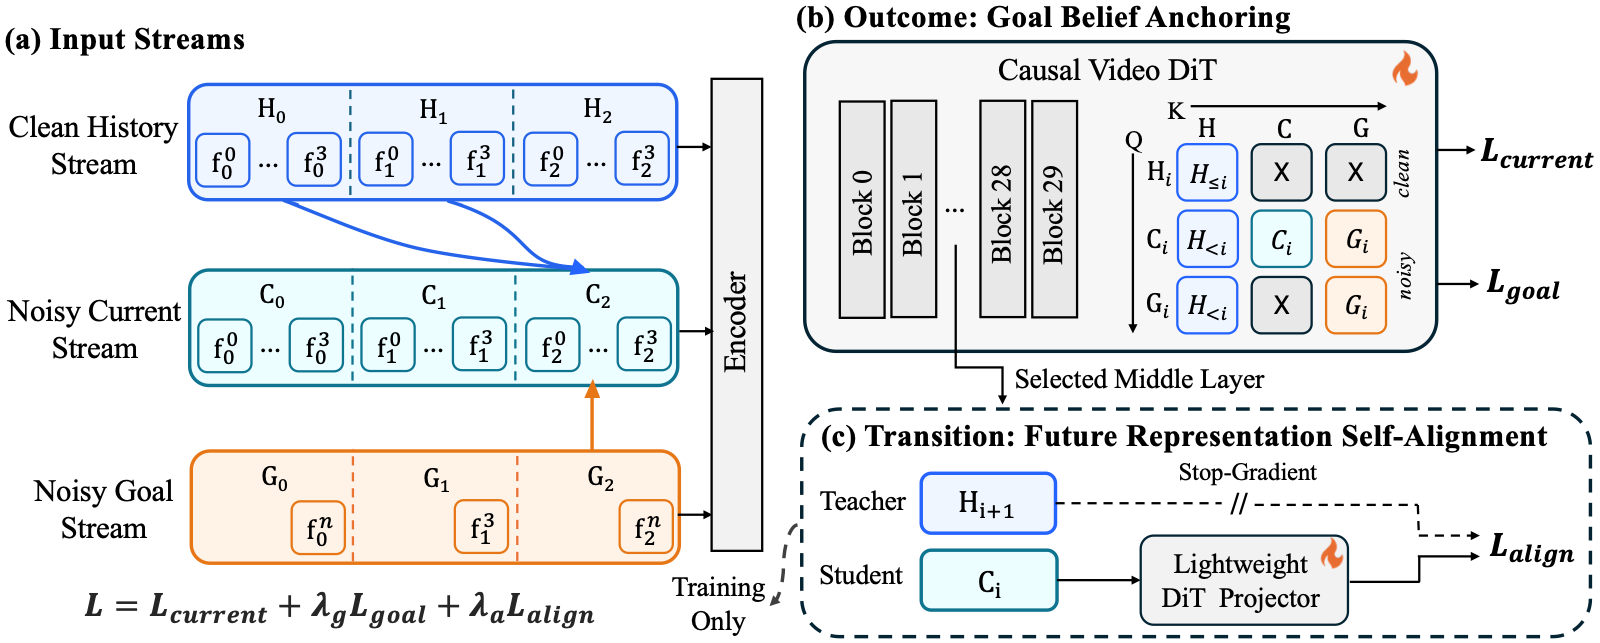
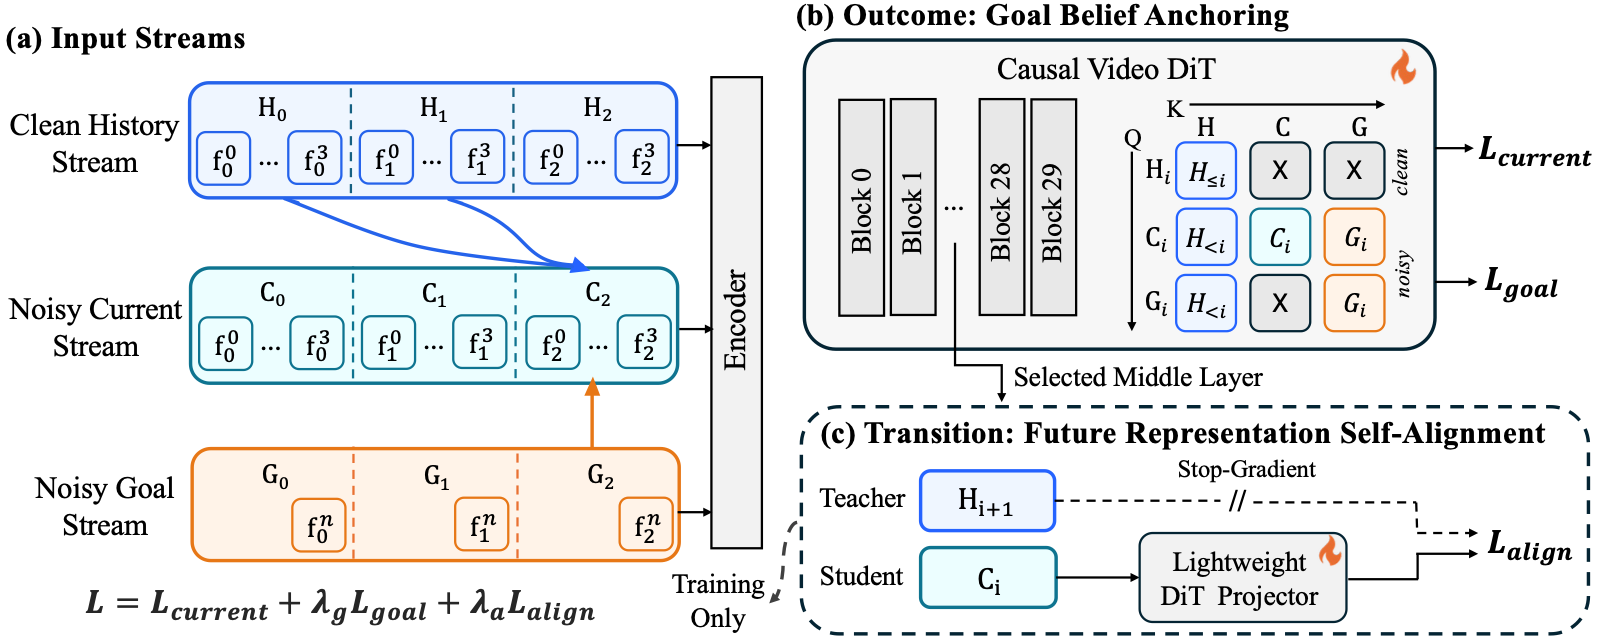
Update ProAR project page

diff --git a/index.html b/index.html
@@ -9,7 +9,7 @@
   <link rel="icon" href="favicon.ico?v=2" sizes="any">
   <link rel="icon" href="images/favicon.svg?v=2" type="image/svg+xml">
   <link rel="apple-touch-icon" href="images/apple-touch-icon.png?v=2">
-  <link rel="stylesheet" href="styles.css?v=restore-gt-4">
+  <link rel="stylesheet" href="styles.css?v=compact-hero-6">
   <script src="script.js?v=worldarena-names-2" defer></script>
 </head>
 <body>
@@ -17,25 +17,29 @@
     <nav class="nav wrap" aria-label="Main navigation">
       <a class="wordmark" href="#"><span>Pro</span>AR<span class="brand-dot"></span></a>
       <div class="nav-links"><a href="#idea">The idea</a><a href="#method">Method</a><a href="#results">Results</a><a href="#citation">Citation</a></div>
-      <a class="nav-paper" href="paper.pdf" target="_blank" rel="noopener">Paper ↗</a>
+      <a class="nav-paper" href="#" aria-disabled="true" onclick="return false;" title="PDF link to be added">Paper ↗</a>
     </nav>
   </header>
 
   <main>
-    <section class="hero wrap">
+    <section class="hero wrap hero-with-teaser">
       <p class="eyebrow">Autoregressive video · Prospective reasoning</p>
       <h1><span class="hero-name"><span>Pro</span>AR</span>Learning Prospective Reasoning<br class="desktop-break"> with Autoregressive Video Models</h1>
-      <p class="authors">Linghui Shen<sup>1</sup><span>·</span><a href="https://darthzhu.github.io/" target="_blank" rel="noopener">Tinghui Zhu</a><sup>2</sup><span>·</span><a href="https://sheng-z.github.io/" target="_blank" rel="noopener">Sheng Zhang</a><sup>3</sup><span>·</span><a href="https://muhaochen.github.io/" target="_blank" rel="noopener">Muhao Chen</a><sup>2</sup></p>
+      <p class="authors"><a href="https://scholar.google.com/citations?user=rbJSgZoAAAAJ" target="_blank" rel="noopener">Linghui Shen</a><sup>1</sup><span>·</span><a href="https://darthzhu.github.io/" target="_blank" rel="noopener">Tinghui Zhu</a><sup>2</sup><span>·</span><a href="https://sheng-z.github.io/" target="_blank" rel="noopener">Sheng Zhang</a><sup>3</sup><span>·</span><a href="https://muhaochen.github.io/" target="_blank" rel="noopener">Muhao Chen</a><sup>2</sup></p>
       <p class="affiliations"><span><sup>1</sup> The Hong Kong Polytechnic University</span><span><sup>2</sup> University of California, Davis</span><span><sup>3</sup> Microsoft</span></p>
       <p class="hero-summary">ProAR transforms autoregressive video generation into a visual reasoning process through <strong>prospective guidance.</strong></p>
+      <!-- TODO: Replace the three PDF/Paper placeholder links with the arXiv PDF URL; remove aria-disabled and onclick. -->
       <div class="hero-actions">
         <a class="button" href="https://arxiv.org/" target="_blank" rel="noopener"><svg class="resource-icon" viewBox="0 0 24 24" fill="none" stroke="currentColor" stroke-width="2" stroke-linecap="round" stroke-linejoin="round" aria-hidden="true"><path d="M5 3 18.5 21M19 3l-6 8M10.5 14 5 21"/><path d="m5 3 4.5 1L19 20l-.5 1" stroke-width="1.3"/></svg> arXiv</a>
-        <a class="button primary" href="paper.pdf" target="_blank" rel="noopener"><svg class="resource-icon" viewBox="0 0 24 24" fill="none" stroke="currentColor" stroke-width="1.7" aria-hidden="true"><path d="M6 3h8l4 4v14H6zM14 3v5h4M9 12h6M9 16h6"/></svg> PDF</a>
+        <a class="button primary" href="#" aria-disabled="true" onclick="return false;" title="PDF link to be added"><svg class="resource-icon" viewBox="0 0 24 24" fill="none" stroke="currentColor" stroke-width="1.7" aria-hidden="true"><path d="M6 3h8l4 4v14H6zM14 3v5h4M9 12h6M9 16h6"/></svg> PDF</a>
         <a class="button" href="https://github.com/luka-group/ProAR" target="_blank" rel="noopener"><svg class="resource-icon" viewBox="0 0 24 24" fill="currentColor" aria-hidden="true"><path d="M12 .297C5.37.297 0 5.67 0 12.297c0 5.303 3.438 9.8 8.205 11.385.6.113.82-.258.82-.577 0-.285-.01-1.04-.015-2.04-3.338.724-4.043-1.61-4.043-1.61-.546-1.387-1.333-1.756-1.333-1.756-1.087-.744.083-.729.083-.729 1.205.084 1.838 1.237 1.838 1.237 1.07 1.835 2.809 1.305 3.495.998.108-.776.418-1.305.762-1.605-2.665-.303-5.467-1.334-5.467-5.931 0-1.31.469-2.381 1.236-3.221-.123-.303-.536-1.524.117-3.176 0 0 1.008-.322 3.301 1.23a11.52 11.52 0 0 1 3.003-.404c1.02.005 2.047.138 3.006.404 2.291-1.552 3.297-1.23 3.297-1.23.655 1.652.243 2.873.12 3.176.77.84 1.235 1.911 1.235 3.221 0 4.609-2.807 5.625-5.479 5.921.43.372.823 1.102.823 2.222 0 1.606-.015 2.898-.015 3.293 0 .322.216.694.825.576C20.565 22.092 24 17.597 24 12.297c0-6.627-5.373-12-12-12"/></svg> Code</a>
         <a class="button" href="https://huggingface.co/LinghuiShen/ProAR" target="_blank" rel="noopener"><img class="resource-icon" src="images/huggingface.svg" width="20" height="20" alt="" aria-hidden="true"> Hugging Face</a>
         <a class="button" href="#citation"><span class="resource-icon" aria-hidden="true">❞</span> BibTeX</a>
         <a class="button" href="#results"><span class="resource-icon" aria-hidden="true">↓</span> Explore the results</a>
       </div>
+      <figure class="hero-teaser">
+        <img src="images/proar-teaser.png" width="1672" height="941" fetchpriority="high" alt="ProAR promotional teaser featuring shape sorting, FlowFree, maze navigation, and robotic manipulation scenes.">
+      </figure>
     </section>
 
     <section class="section wrap" id="idea">
@@ -57,7 +61,7 @@
 
     <section class="method-band" id="method"><div class="section wrap">
       <div class="section-heading"><p class="eyebrow">02 / The method</p><h2>Learning Prospective Reasoning</h2><p><strong>Prospective reasoning</strong> anticipates future outcomes and state transitions from observed history and uses these expectations to guide current generation.</p><p>ProAR introduces two complementary mechanisms: outcome guidance and transition guidance.</p></div>
-      <figure class="paper-figure"><a href="images/ProAR-Model_cropped.pdf" target="_blank" rel="noopener" aria-label="Open ProAR architecture at full resolution"><img src="images/ProAR-Model_cropped.png" width="1600" height="643" loading="lazy" alt="ProAR architecture: history, current and goal streams; asymmetric attention for outcome guidance; training-only future representation alignment for transition guidance."></a><figcaption>A shared backbone. Two complementary forms of guidance.</figcaption></figure>
+      <figure class="paper-figure"><a href="images/ProAR-Model_cropped.pdf" target="_blank" rel="noopener" aria-label="Open ProAR architecture at full resolution"><img src="images/ProAR-Model_cropped.png?v=1790935123" width="1600" height="642" loading="lazy" alt="ProAR architecture: history, current and goal streams; asymmetric attention for outcome guidance; training-only future representation alignment for transition guidance."></a><figcaption>A shared backbone. Two complementary forms of guidance.</figcaption></figure>
       <div class="mechanisms">
         <article class="mechanism outcome"><p class="eyebrow">Outcome guidance</p><h3>Goal Belief for<br>Long-Horizon Planning</h3><p class="mechanism-question"><em>“What should the generation achieve?”</em></p><p>ProAR jointly predicts the current chunk and an evolving goal frame. Asymmetric attention lets the goal belief guide current generation while shielding it from the noisy current chunk.</p><div class="mechanism-map">Explicit, sparse, long-range → Goal completion</div></article>
         <article class="mechanism transition"><p class="eyebrow">Transition guidance</p><h3>Representation Self-Alignment for<br>Progressive Reasoning</h3><p class="mechanism-question"><em>“What should happen next?”</em></p><p>Leveraging <strong>teacher forcing in AR training</strong>, ProAR extracts clean next-chunk representations in a <strong>single forward pass</strong>—without an external representation encoder or an additional backbone pass. <br>A lightweight predictor aligns current hidden states with these <br>future targets, encouraging them to anticipate upcoming temporal dynamics.</p><p class="late-start-note"><strong>Late-start alignment.</strong> Transition guidance is activated after an initial training warm-up, once the backbone has learned task-relevant representations.</p><div class="mechanism-map">Implicit, dense, short-range → Progression validity</div></article>
@@ -83,6 +87,6 @@
             Zhang, Sheng and Chen, Muhao}
 }</code></pre></div><p class="citation-note">Publication details will be updated with the public release.</p><p id="copy-status" class="sr-only" role="status"></p></section>
   </main>
-  <footer class="wrap"><a class="wordmark" href="#"><span>Pro</span>AR</a><p>Learning to anticipate. Generating toward a goal.</p><a href="paper.pdf" target="_blank" rel="noopener">Paper ↗</a></footer>
+  <footer class="wrap"><a class="wordmark" href="#"><span>Pro</span>AR</a><p>Learning to anticipate. Generating toward a goal.</p><a href="#" aria-disabled="true" onclick="return false;" title="PDF link to be added">Paper ↗</a></footer>
 </body>
 </html>

diff --git a/styles.css b/styles.css
@@ -31,3 +31,13 @@
 .milestone-values div span{font-size:10px;color:var(--muted)}
 .milestone-arrow{color:var(--blue)}
 @media(max-width:760px){.hero-actions{max-width:420px;margin-left:auto;margin-right:auto}.hero-actions .button{padding:9px 13px;font-size:12px}.efficiency-milestone{padding:18px}.mechanism-map{font-size:11px}}
+
+.hero.hero-with-teaser{padding-top:52px;padding-bottom:38px}
+.hero-with-teaser h1{font-size:clamp(26px,3vw,38px)}
+.hero-with-teaser .hero-name{font-size:clamp(58px,6.5vw,76px);letter-spacing:-3.5px;margin-bottom:16px}
+.hero-with-teaser .authors{margin-top:20px}
+.hero-with-teaser .hero-summary{margin-top:22px;font-size:18px;line-height:1.6}
+.hero-with-teaser .hero-actions{margin-top:20px}
+.hero-teaser{max-width:900px;margin:28px auto 0;overflow:hidden;border:1px solid var(--line);border-radius:14px;background:var(--paper)}
+.hero-teaser img{display:block;width:100%;height:auto}
+@media(max-width:760px){.hero.hero-with-teaser{padding-top:34px;padding-bottom:28px}.hero-with-teaser .hero-summary{font-size:16px;margin-top:18px}.hero-teaser{margin-top:22px;border-radius:9px}}

diff --git a/README.md b/README.md
@@ -17,6 +17,4 @@ Open http://localhost:8000 in your browser. Stop the server with Ctrl+C.
 - `images/posters/`: static video previews for lazy loading.
 - `paper.pdf`: the supplied manuscript.
 
-VBVR has five pages of two tasks; VideoRLVR has two pages of three tasks; WorldArena has one page of three tasks. Left is always AR; right is ProAR. Shorter videos hold their final frame until the longest finishes. Visible comparisons play automatically except when reduced motion is preferred. Controls can pause or replay the complete group.
 
-Before public release, confirm paper publication metadata and replace the provisional BibTeX. Add Code and Models links once their destinations are available.
